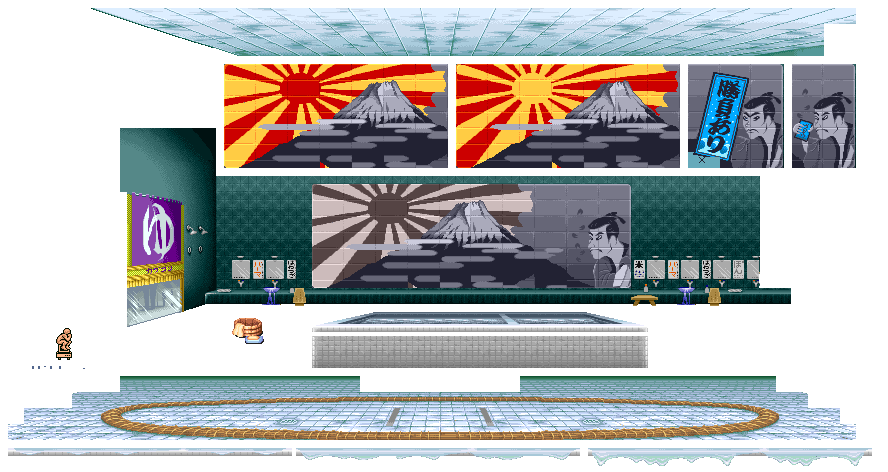
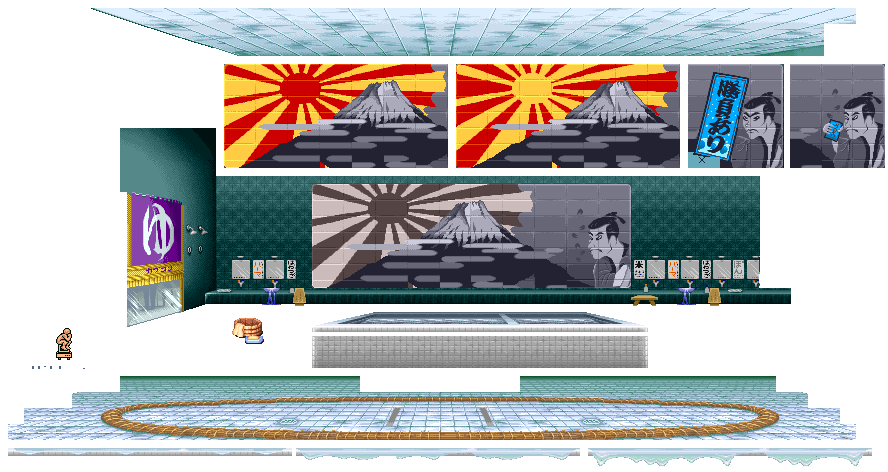
Honda Stage

Changed region(s): [[0.8818, 0.1186, 1.0, 0.3559]]

diff --git a/ModuleSceneHonda.cpp b/ModuleSceneHonda.cpp
@@ -1,0 +1,114 @@
+#include "Globals.h"
+#include "Application.h"
+#include "ModuleSceneHonda.h"
+#include "ModuleRender.h"
+#include "ModuleTextures.h"
+#include "ModulePlayer.h"
+#include "ModuleInput.h"
+#include "ModuleAudio.h"
+#include "ModuleFadeToBlack.h"
+#include "SDL/include/SDL.h"
+
+// Reference at https://www.youtube.com/watch?v=OEhmUuehGOA
+
+ModuleSceneHonda::ModuleSceneHonda(bool start_enabled) : Module(start_enabled)
+{
+	// ground
+	ground.x = 8;
+	ground.y = 376;
+	ground.w = 896;
+	ground.h = 64;
+
+	// Background
+	background.x = 120;
+	background.y = 129;
+	background.w = 664;
+	background.h = 198;
+
+	// Roof
+	roof.x = 91;
+	roof.y = 8;
+	roof.w = 756;
+	roof.h = 48;
+
+	// Bath
+	bath.x = 164;
+	bath.y = 66;
+	bath.w = 336;
+	bath.h = 51;
+
+	// Barrel
+	barrel.x = 542;
+	barrel.y = 85;
+	barrel.w = 32;
+	barrel.h = 26;
+
+	// Water animation
+	water.frames.push_back({ 586, 448, 284, 8 });
+	water.frames.push_back({ 8, 448, 284, 18 });
+	water.frames.push_back({ 296, 448, 284, 12 });
+	water.speed = 0.02f;
+
+	// Mountains animation
+	mountains.frames.push_back({ 224, 64, 224, 104 });
+	mountains.frames.push_back({ 456, 64, 224, 104 });
+	mountains.speed = 0.02f;
+
+	// Face animation
+	face.frames.push_back({ 688, 64, 95, 104 });
+	face.frames.push_back({ 790, 64, 95, 104 });
+	face.speed = 0.02f;
+	
+
+}
+
+ModuleSceneHonda::~ModuleSceneHonda()
+{}
+
+// Load assets
+bool ModuleSceneHonda::Start()
+{
+	LOG("Loading honda scene");
+
+	graphics = App->textures->Load("honda_stage2.png");
+	animation = App->textures->Load("honda_stage.png");
+
+	// TODO 7: Enable the player module
+	App->player->Enable();
+
+	// TODO 0: trigger background music
+	App->audio->PlayMusic("honda.ogg");
+
+	return true;
+}
+
+// UnLoad assets
+bool ModuleSceneHonda::CleanUp()
+{
+	LOG("Unloading ken scene");
+
+	App->textures->Unload(graphics);
+	App->player->Disable();
+
+	return true;
+}
+
+// Update: draw background
+update_status ModuleSceneHonda::Update()
+{
+	// Draw everything --------------------------------------
+	App->renderer->Blit(graphics, -100, 170, &ground, SCREEN_SIZE); // ground
+
+	App->renderer->Blit(graphics, -10, 0, &background, SCREEN_SIZE); // background
+	App->renderer->Blit(animation, 182, 56, &(mountains.GetCurrentFrame()), SCREEN_SIZE); // mountain animation
+	App->renderer->Blit(animation, 405, 56, &(face.GetCurrentFrame()), SCREEN_SIZE); // face animation
+
+	App->renderer->Blit(graphics, -60, 0, &roof, SCREEN_SIZE); // roof
+
+	App->renderer->Blit(graphics, 175, 140, &bath, SCREEN_SIZE); // bath
+	App->renderer->Blit(graphics, 203, 152, &(water.GetCurrentFrame()), SCREEN_SIZE); // water animation
+
+	App->renderer->Blit(graphics, 90, 165, &barrel, SCREEN_SIZE); // barrel
+
+	return UPDATE_CONTINUE;
+}

diff --git a/ModuleSceneKen.cpp b/ModuleSceneKen.cpp
@@ -1,6 +1,7 @@
 #include "Globals.h"
 #include "Application.h"
 #include "ModuleSceneKen.h"
+#include "ModuleSceneHonda.h"
 #include "ModuleRender.h"
 #include "ModuleTextures.h"
 #include "ModulePlayer.h"
@@ -45,7 +46,6 @@ ModuleSceneKen::ModuleSceneKen(bool start_enabled) : Module(start_enabled)
 	girl.frames.push_back({ 624, 80, 32, 56 });
 	girl.frames.push_back({ 624, 144, 32, 56 });
 	girl.speed = 0.02f;
-
 }
 
 ModuleSceneKen::~ModuleSceneKen()
@@ -104,6 +104,12 @@ update_status ModuleSceneKen::Update()
 
 	// TODO 11: Make that pressing space triggers a switch to honda logic module
 	// using FadeToBlack module
+
+	if (App->input->GetKey(SDL_SCANCODE_SPACE) == KEY_DOWN)
+	{
+		// Switch too honda module
+		App->fade->FadeToBlack(App->scene_honda, App->scene_ken, 3.0f);
+	}
 
 	return UPDATE_CONTINUE;
 }

diff --git a/ModuleSceneHonda.h b/ModuleSceneHonda.h
@@ -1,0 +1,38 @@
+#ifndef __MODULESCENEHONDA_H__
+#define __MODULESCENEHONDA_H__
+
+#include "Module.h"
+#include "Animation.h"
+#include "Globals.h"
+
+struct SDL_Texture;
+
+class ModuleSceneHonda : public Module
+{
+public:
+	ModuleSceneHonda(bool start_enabled = true);
+	~ModuleSceneHonda();
+
+	bool Start();
+	update_status Update();
+	bool CleanUp();
+
+public:
+
+	SDL_Texture* graphics = nullptr;
+	SDL_Texture* animation = nullptr;
+	SDL_Rect ground;
+	SDL_Rect background;
+	SDL_Rect roof;
+	SDL_Rect bath;
+	SDL_Rect barrel;
+	Animation mountains;
+	Animation face;
+	Animation water;
+
+private:
+
+	
+};
+
+#endif // __MODULESCENEKEN_H__

diff --git a/Application.cpp b/Application.cpp
@@ -6,6 +6,7 @@
 #include "ModuleAudio.h"
 #include "ModuleFadeToBlack.h"
 #include "ModuleSceneKen.h"
+#include "ModuleSceneHonda.h"
 #include "ModulePlayer.h"
 
 using namespace std;
@@ -22,6 +23,7 @@ Application::Application()
 
 	// Game Modules
 	modules.push_back(scene_ken = new ModuleSceneKen(false));
+	modules.push_back(scene_honda = new ModuleSceneHonda(false));
 	modules.push_back(player = new ModulePlayer(false));
 	modules.push_back(fade = new ModuleFadeToBlack());
 }

diff --git a/Application.h b/Application.h
@@ -13,6 +13,7 @@ class ModuleAudio;
 class ModuleFadeToBlack;
 class ModulePlayer;
 class ModuleSceneKen;
+class ModuleSceneHonda;
 
 class Application
 {
@@ -34,6 +35,7 @@ public:
 	ModuleFadeToBlack* fade;
 	ModulePlayer* player;
 	ModuleSceneKen* scene_ken;
+	ModuleSceneHonda* scene_honda;
 
 private:
 
